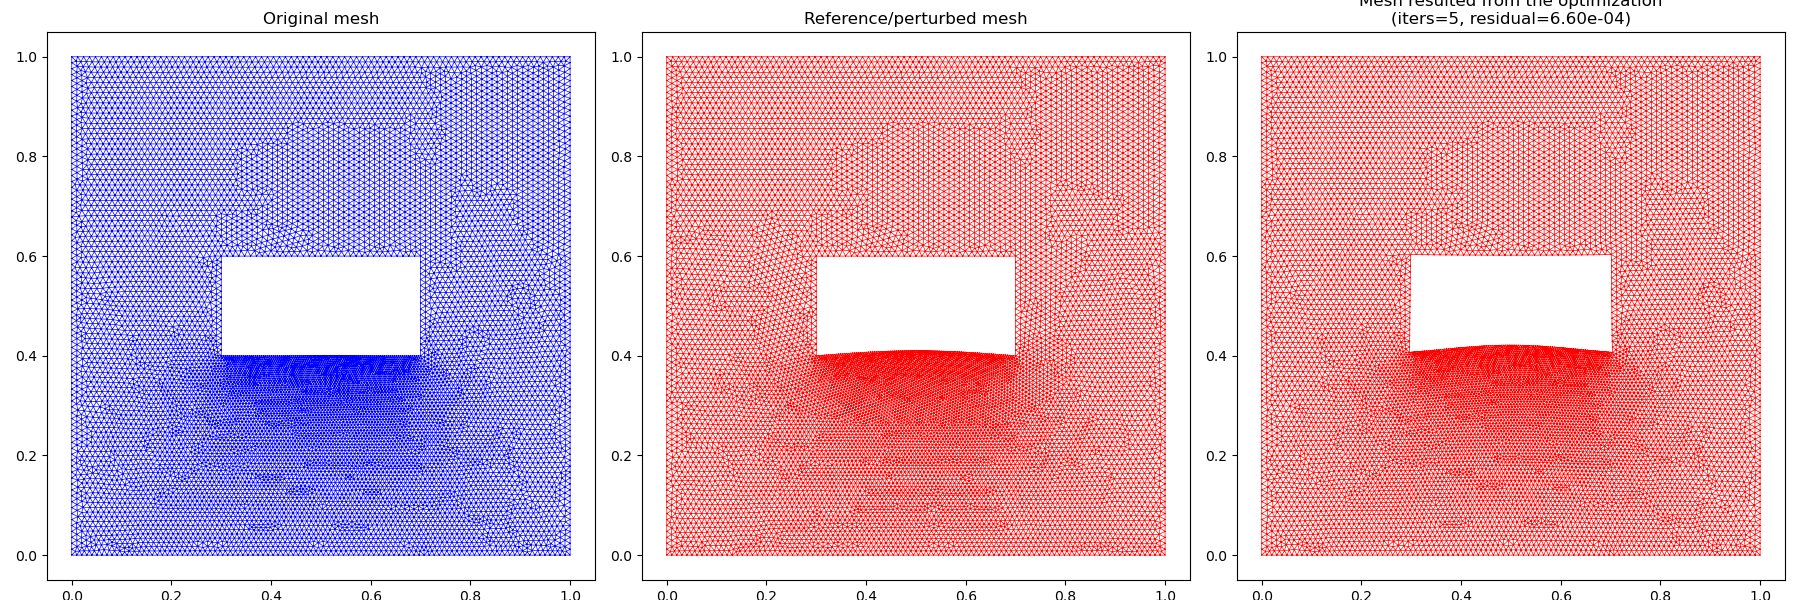
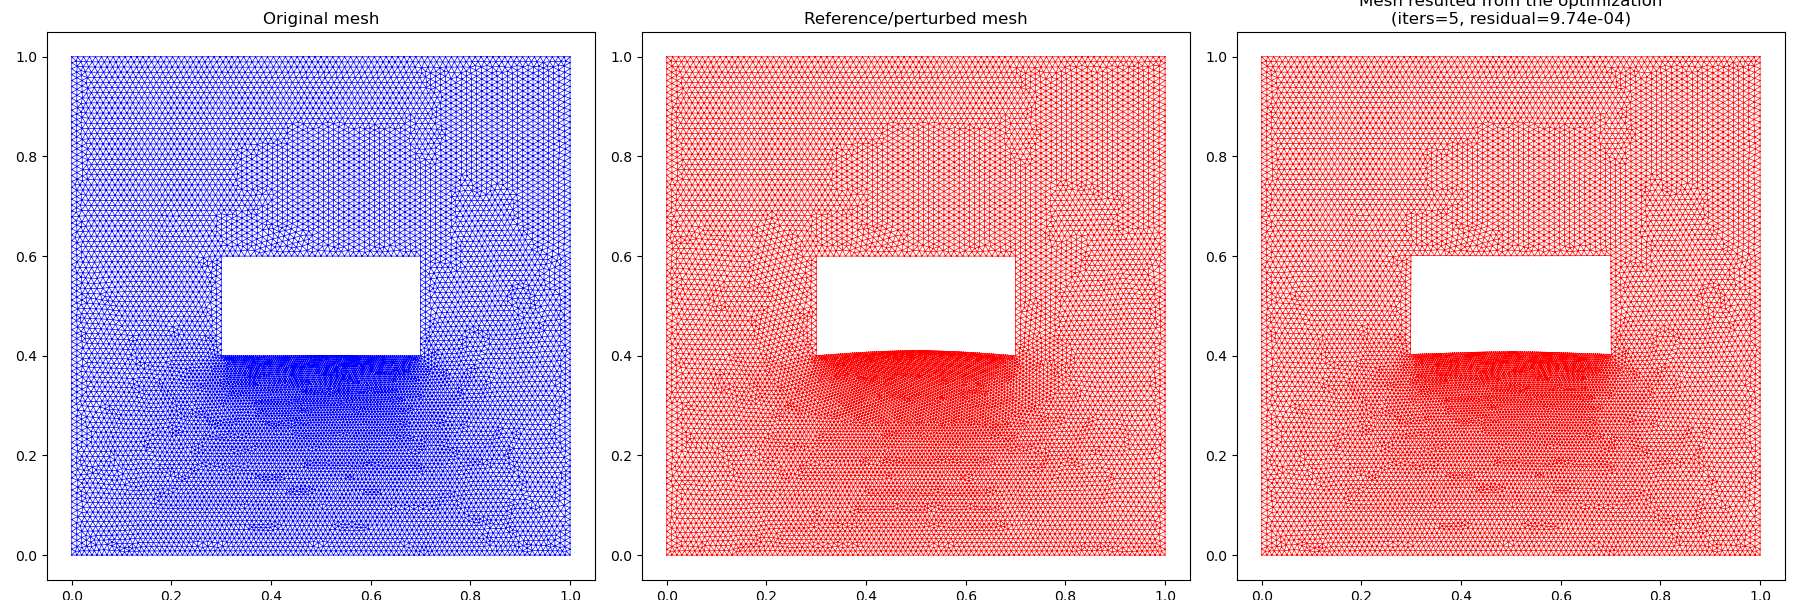
fix a bit of bug and write some TODOs

Changed region(s): [[0.6844, 0.09, 0.9956, 0.93]]

diff --git a/opt_DG0/post_process.py b/opt_DG0/post_process.py
@@ -1,0 +1,40 @@
+import h5py
+from dolfin import *
+from dolfin_adjoint import *
+import numpy as np
+import moola
+import pandas as pd
+
+import subprocess
+import os
+import gmsh
+import matplotlib.pyplot as plt
+
+from HH_shape_opt.mesh_generation import obstacle_marker, side_wall_marker, bottom_wall_marker, obstacle_opt_marker
+from HH_shape_opt.initialize_opt import MeshUtil
+from HH_shape_opt.helmholtz_solve import forward_solve, load_forward_simulation_data_bottomwall, IncidentWaveSetup, plane_wave
+from HH_shape_opt.process_result import save_optimization_result, calculate_magnitude_and_phase_error
+from HH_shape_opt.visualize import plot_mesh_deformation_from_result, plot_projected_errors
+
+frequency = 5e9
+inc_wave_setup = IncidentWaveSetup(frequency, plane_wave)
+
+measurement_data_file_path = "measurements/matlab_measurements_sin0.5.csv"
+msh_file_path = "meshes/square_with_rect_obstacle.msh"
+markers_dict = {
+    "obstacle": obstacle_marker,
+    "side_wall": side_wall_marker,
+    "bottom_wall": bottom_wall_marker,
+    "obstacle_opt": None
+}
+obstacle_stiffness = 25
+
+initial_guess_mesh_util = MeshUtil(
+    msh_file_path, markers_dict, obstacle_stiffness)
+
+result_path = "outputs/result_sin_0.5_DG0_matlab.h5"
+matlab_fullfield_csv_path = "measurements/matlab_fullfield_sin0.5.csv"
+results = calculate_magnitude_and_phase_error(matlab_fullfield_csv_path, result_path,
+                                        initial_guess_mesh_util, inc_wave_setup)
+
+plot_projected_errors(results, "error_sin0.5_DG0_matlab.png")

diff --git a/opt_DG0/opt_script.py b/opt_DG0/opt_script.py
@@ -71,8 +71,7 @@ h_moola = moola.DolfinPrimalVector(h)
 
 solver = moola.BFGS(problem, h_moola,
                     options={
-                        "maxiter": 10,
-                        "gtol": 1e-7,
+                        "maxiter": 5
                     })
 
 sol = solver.solve()
@@ -94,11 +93,11 @@ plot_mesh_deformation_from_result(
     plot_file_name="outputs/mesh_deformation_sin_0.5_DG0_matlab.png",
 )
 
-matlab_fullfield_csv_path = "measurements/matlab_measurements_sin0.5.csv"
+matlab_fullfield_csv_path = "measurements/matlab_fullfield_sin0.5.csv"
 results = calculate_magnitude_and_phase_error(matlab_fullfield_csv_path, result_path,
                                         initial_guess_mesh_util, inc_wave_setup)
 
-plot_projected_errors(results, "error_sin0.5_DG0_matlab.png")
+plot_projected_errors(results, "outputs/error_sin0.5_DG0_matlab.png")
 
 # Print optimization summary
 print("\n=== Optimization Summary ===")

diff --git a/HH_shape_opt/visualize.py b/HH_shape_opt/visualize.py
@@ -178,13 +178,13 @@ def plot_projected_errors(results, error_plot_file, show=False, projection_degre
 
         plt.tight_layout()
 
-        os.makedirs(os.path.dirname(error_plot_file), exist_ok=True)
         plt.savefig(error_plot_file, dpi=200, bbox_inches="tight")
         if show:
             plt.show()
         plt.close(fig)
 
-        print(f"Sum of magnitude error square: {np.sum(mag_err ** 2)}")
+        # TODO: Make this a test
+        print(f"Sum of magnitude error square: {np.sum(mag_err ** 2)}") # If divided by 1/num points-1 i think u can recover the residual
         print(f"Projected error plots saved to {error_plot_file}")
 
 
